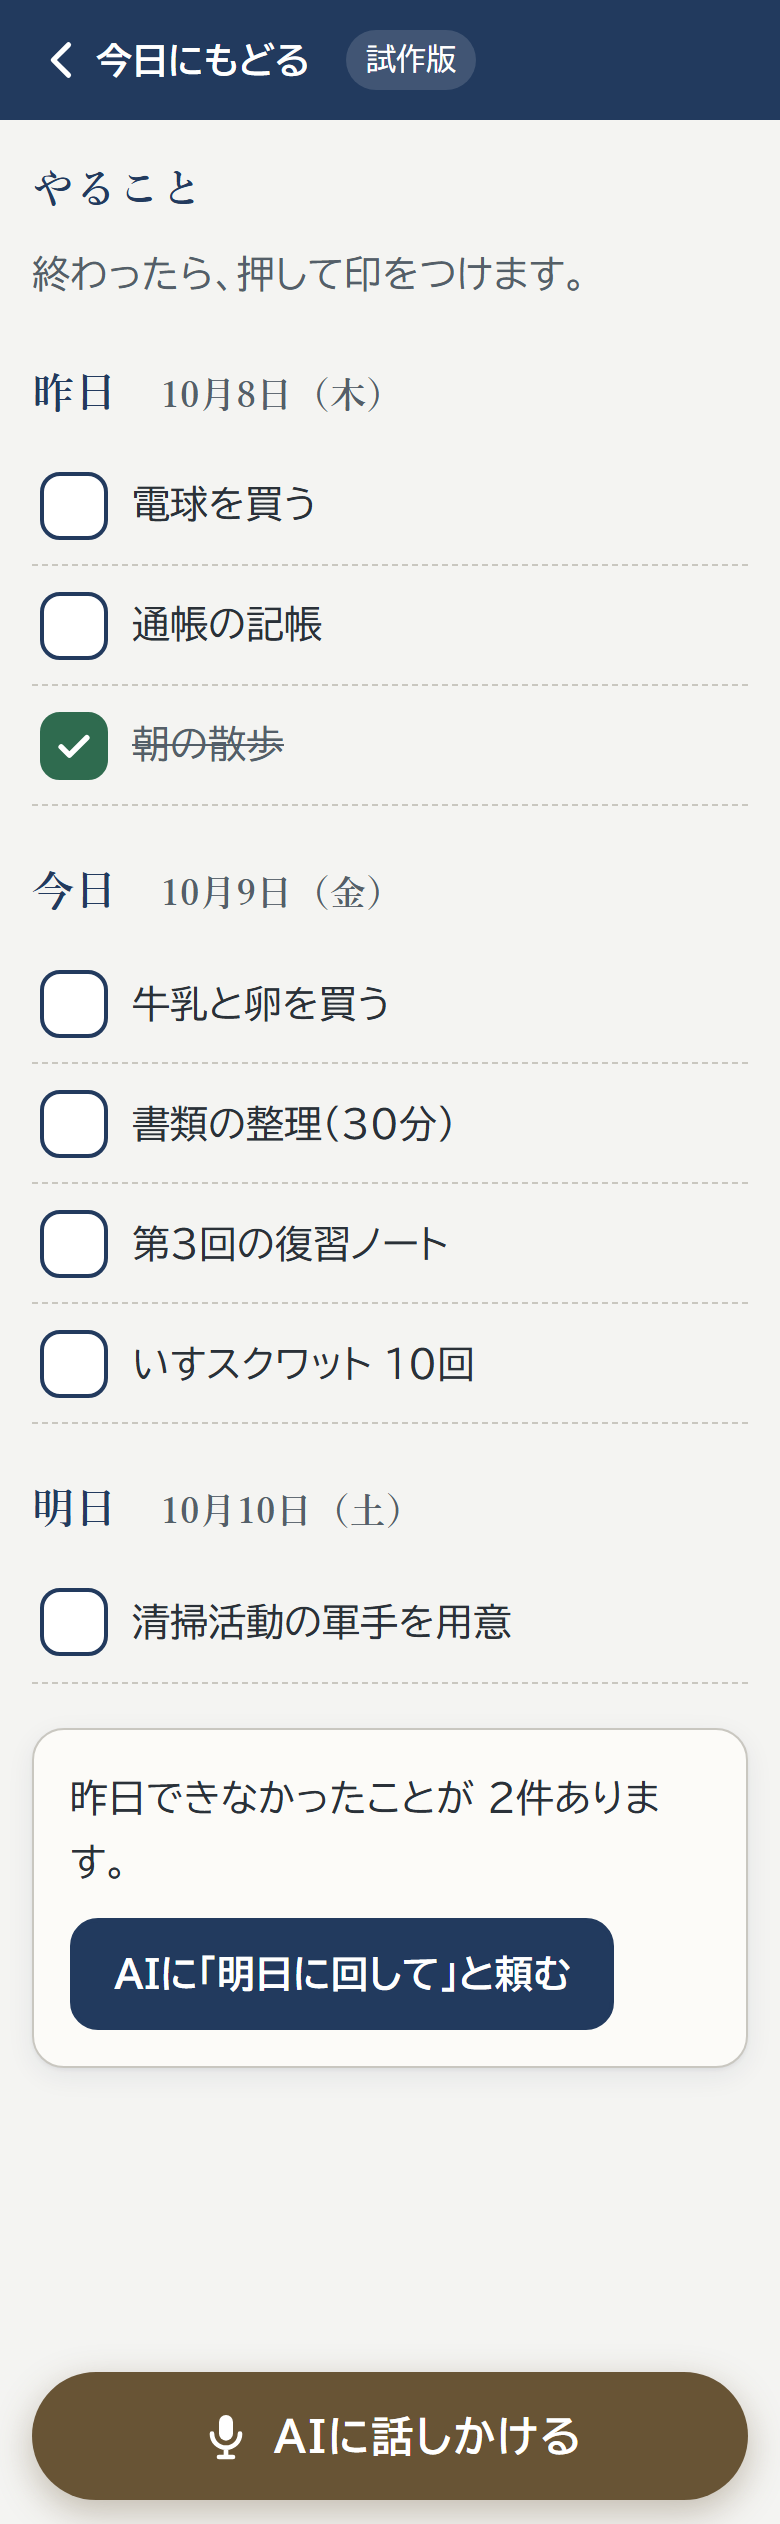
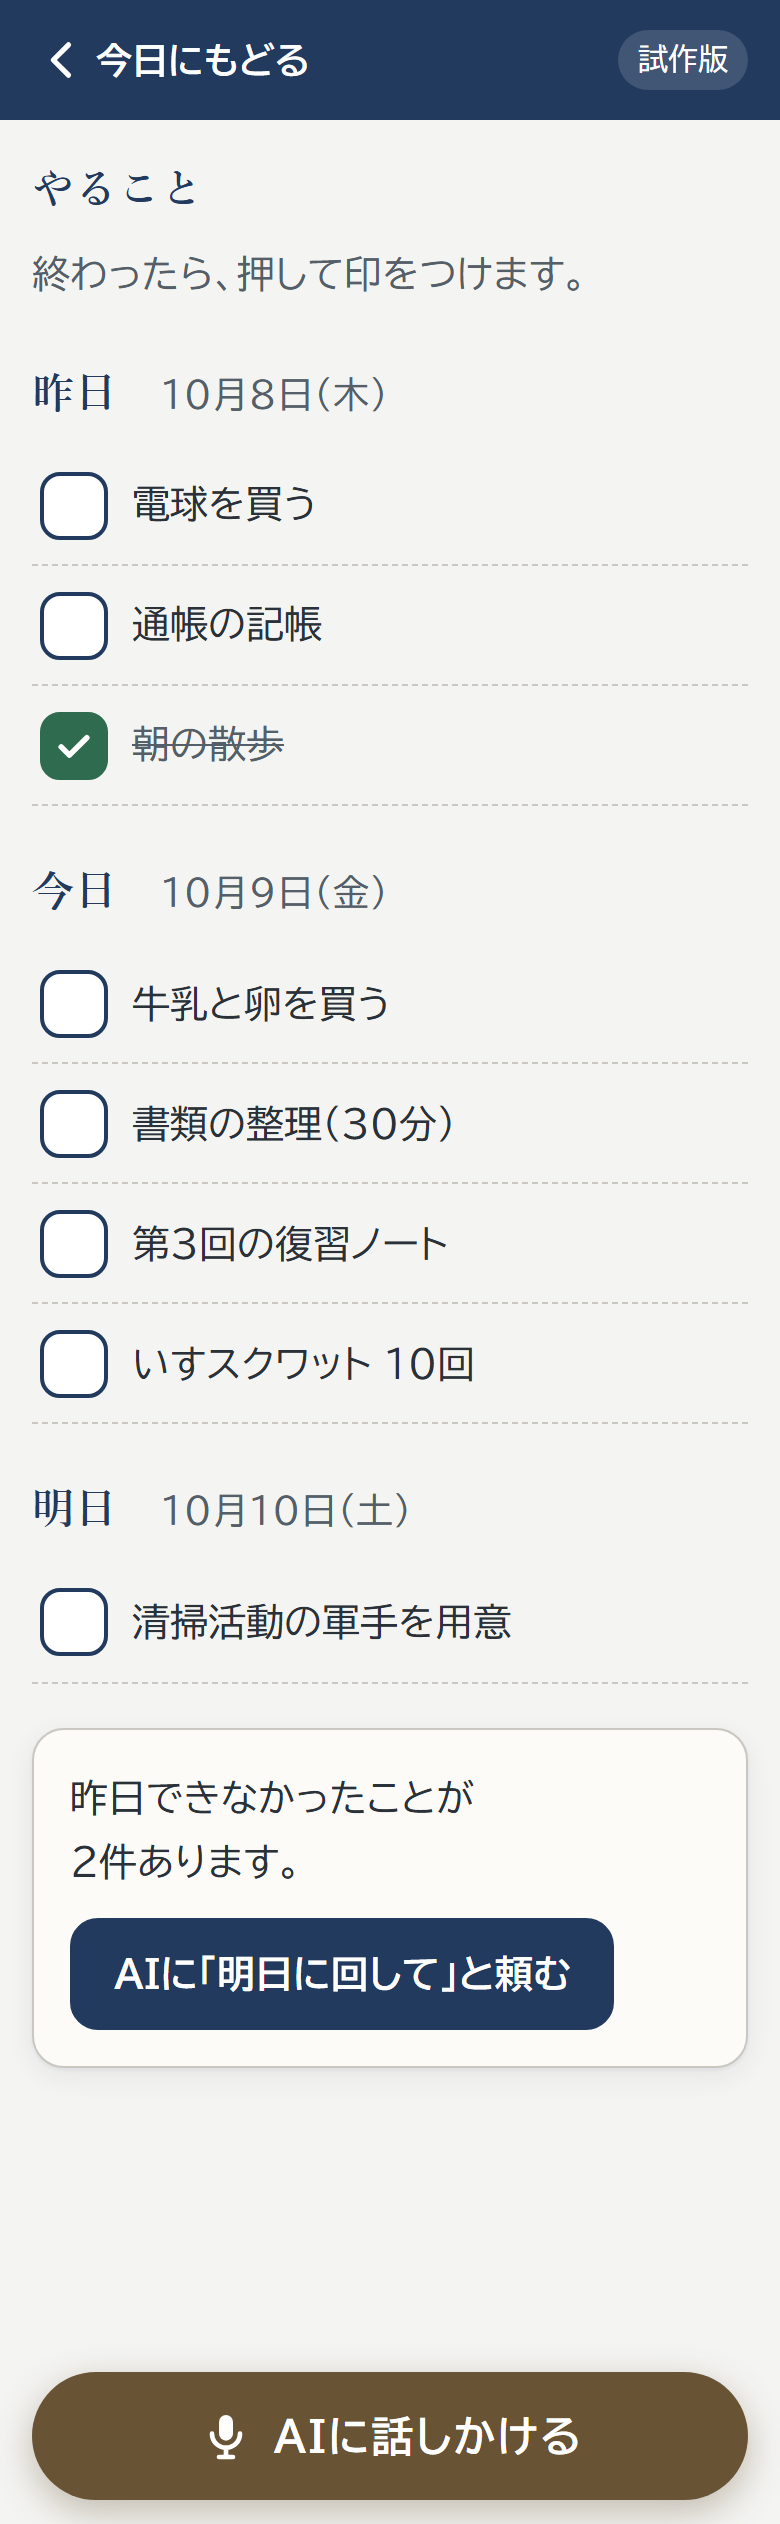
審査ラウンド1の指摘を反映：古い提案の二重登録を防ぐ／提案の理由を覚えていることから組み立てる／日本語の折り返し／記憶の承認表示／例である旨の注記

diff --git a/app.js b/app.js
@@ -46,12 +46,12 @@
         { id: 't8', date: key(TOMORROW), title: '清掃活動の軍手を用意', done: false }
       ],
       memories: [
-        { id: 'm1', text: '朝は6時ごろに起きる', src: '9月28日の会話から' },
-        { id: 'm2', text: '歩くのは30分くらいが続けやすい', src: '10月2日の会話から' },
-        { id: 'm3', text: '学ぶのは午後のほうが集中できる', src: '10月5日の会話から' },
-        { id: 'm4', text: '火曜の午前は定期の通院がある', src: '予定から' },
-        { id: 'm5', text: '予防栄養学を学んでいる。食事と運動のつながりに関心がある', src: '大学の登録から' },
-        { id: 'm6', text: '人生後半の居場所づくりについて発信している', src: '自己紹介から' }
+        { id: 'm1', text: '朝は6時ごろに起きる', src: '9月28日の会話から・承認ずみ' },
+        { id: 'm2', text: '歩くのは30分くらいが続けやすい', src: '10月2日の会話から・承認ずみ' },
+        { id: 'm3', text: '学ぶのは午後のほうが集中できる', src: '10月5日の会話から・承認ずみ' },
+        { id: 'm4', text: '火曜の午前は定期の通院がある', src: '予定から・承認ずみ' },
+        { id: 'm5', text: '予防栄養学を学んでいる。食事と運動のつながりに関心がある', src: '大学の登録から・承認ずみ' },
+        { id: 'm6', text: '人生後半の居場所づくりについて発信している', src: '自己紹介から・承認ずみ' }
       ],
       candidates: [
         { id: 'c1', text: '日曜の夜は、家族と電話することが多い', src: 'きのうの会話から' }
@@ -123,7 +123,9 @@
   ];
 
   // ---------- 台本（AIの返事） ----------
+  function remembers(re) { return state.memories.some(function (m) { return re.test(m.text); }); }
   function walkTime() { return state.walkEvening ? '16:30' : '7:00'; }
+  function reviewTime() { return remembers(/日曜の夜/) ? '16:00' : '19:00'; }
   function buildPlan() {
     var w = walkTime();
     return [
@@ -132,7 +134,7 @@
       { date: key(nextWeek(3)), time: w, title: 'ウォーキング 30分', kind: 'walk' },
       { date: key(nextWeek(4)), time: '15:00', title: '大学「予防栄養学の基礎」第5回（45分）', kind: 'univ', univ: true },
       { date: key(nextWeek(6)), time: w, title: 'ウォーキング 30分', kind: 'walk' },
-      { date: key(nextWeek(0)), time: '19:00', title: '1週間のふりかえり（健康と学び）', kind: 'review' }
+      { date: key(nextWeek(0)), time: reviewTime(), title: '1週間のふりかえり（健康と学び）', kind: 'review' }
     ];
   }
   function planApproved() { return state.events.some(function (e) { return e.ai; }); }
@@ -165,7 +167,8 @@
         if (planApproved()) {
           return { kind: 'text', html: '来週の運動と勉強は、もう予定に入っています。<a href="#/schedule">予定を見る</a>と確かめられます。' };
         }
-        return { kind: 'plan', id: nid('p'), status: 'pending', evening: !!state.walkEvening };
+        state.chat.forEach(function (m) { if (m.body && m.body.kind === 'plan' && m.body.status === 'pending') m.body.status = 'superseded'; });
+        return { kind: 'plan', id: nid('p'), status: 'pending', evening: !!state.walkEvening, review: reviewTime(), why: planReasons() };
       case 'carry':
         var m = movableTasks();
         if (!m.length) return { kind: 'text', html: '昨日のやることは、すべて片づいています。おつかれさまでした。' };
@@ -198,8 +201,8 @@
 
   // ---------- 承認 ----------
   function approvePlan(id) {
-    var msg = findMsg(id); if (!msg || msg.body.status !== 'pending') return;
-    buildPlan().forEach(function (p) {
+    var msg = findMsg(id); if (!msg || msg.body.status !== 'pending' || planApproved()) return;
+    buildPlanFor(msg.body).forEach(function (p) {
       state.events.push({ id: nid('e'), date: p.date, time: p.time, title: p.title, ai: true, univ: !!p.univ });
     });
     msg.body.status = 'approved';
@@ -259,6 +262,7 @@
         '<p class="date">' + esc(label(TODAY)) + '</p>' +
         '<h1>こんにちは、' + NAME + 'さん</h1>' +
         '<p class="sub">今日も、自分らしい一日を。</p>' +
+        '<p class="note">※試作版に出てくる予定や記憶は、説明のための例です。</p>' +
       '</section>' +
       (state.guideClosed ? '' :
       '<section class="guide" aria-label="この試作版の見どころ">' +
@@ -302,10 +306,7 @@
           return '<li><span class="d">' + esc(label(fromKey(p.date))) + '　<span class="t">' + esc(p.time) + '</span></span><span>' + esc(p.title) + '</span></li>';
         }).join('') + '</ul></div>' +
         '<div class="why"><h3>こう考えました</h3><ul>' +
-          '<li>歩くのは30分くらいが続けやすい、と伺っています <span class="from">覚えていること</span></li>' +
-          '<li>学ぶのは午後のほうが集中できるので、大学は15時から <span class="from">覚えていること</span></li>' +
-          '<li>通院と会食の日時は避けました <span class="from">予定</span></li>' +
-          '<li>大学は「予防栄養学の基礎」の続き（第4回・第5回） <span class="from">大学</span></li>' +
+          (b.why || []).map(function (r) { return '<li>' + esc(r[0]) + ' <span class="from">' + esc(r[1]) + '</span></li>'; }).join('') +
         '</ul></div>' +
         (b.status === 'pending'
           ? '<p class="wait-note">まだ予定には入れていません。よろしければ登録します。</p>' +
@@ -314,7 +315,9 @@
               (b.evening ? '' : '<button class="btn secondary block" data-act="say" data-text="ウォーキングは夕方にして">ウォーキングは夕方に</button>') +
               '<button class="btn quiet block" data-act="decline" data-id="' + b.id + '">今回はやめておく</button>' +
             '</div>'
-          : b.status === 'approved' ? '<p class="done-note">✓ 登録しました</p>' : '<p class="wait-note">この提案は見送りました。</p>') +
+          : b.status === 'approved' ? '<p class="done-note">✓ 登録しました</p>'
+          : b.status === 'superseded' ? '<p class="wait-note">この案は、下の新しい案に置きかえました。</p>'
+          : '<p class="wait-note">この提案は見送りました。</p>') +
       '</div>';
     }
     if (b.kind === 'carry') {
@@ -333,7 +336,20 @@
   // 提案カードは「出したときの条件」で描く（夕方案と朝案を混ぜない）
   function buildPlanFor(b) {
     var saved = state.walkEvening; state.walkEvening = b.evening;
-    var p = buildPlan(); state.walkEvening = saved; return p;
+    var p = buildPlan(); state.walkEvening = saved;
+    if (b.review) p.forEach(function (x) { if (x.kind === 'review') x.time = b.review; });
+    return p;
+  }
+  // 提案の理由は、そのとき覚えていることから組み立てる（忘れたことは理由に使わない）
+  function planReasons() {
+    var r = [];
+    if (remembers(/30分/)) r.push(['歩くのは30分くらいが続けやすい、と伺っています', '覚えていること']);
+    if (state.walkEvening) r.push(['ご希望に合わせて、ウォーキングは夕方にしました', '会話']);
+    if (remembers(/午後/)) r.push(['学ぶのは午後のほうが集中できるので、大学は15時から', '覚えていること']);
+    r.push(['通院と会食の日時は避けました', '予定']);
+    r.push(['大学は「予防栄養学の基礎」の続き（第4回・第5回）', '大学']);
+    if (remembers(/日曜の夜/)) r.push(['日曜の夜はご家族と電話されることが多いので、ふりかえりは16時に', '覚えていること']);
+    return r;
   }
 
   function renderChat(scroll) {

diff --git a/styles.css b/styles.css
@@ -29,6 +29,9 @@ body {
   color: var(--ink);
   background: #e7e3da;
   overflow-x: hidden;
+  word-break: auto-phrase;
+  text-wrap: pretty;
+  line-break: strict;
 }
 a { color: inherit; }
 button { font: inherit; color: inherit; }
@@ -70,6 +73,7 @@ svg { display: block; }
 .back svg { width: 26px; height: 26px; }
 .back:not([hidden]) + .brand { display: none; }
 .demo-badge {
+  margin-left: auto;
   font-size: 15px; padding: 2px 10px; border-radius: 999px;
   background: rgba(255,255,255,.14); color: #fff; white-space: nowrap;
 }
@@ -104,6 +108,8 @@ svg { display: block; }
 .section-title { font-size: 21px; color: var(--navy); margin: 28px 0 12px; }
 .lead { color: var(--muted); }
 .small { font-size: 18px; color: var(--muted); }
+.section-title .small { font-family: var(--sans); font-weight: 400; }
+.hello .note { margin-top: 8px; font-size: 18px; color: var(--muted); }
 .btn {
   display: inline-flex; align-items: center; justify-content: center; gap: 8px;
   min-height: 56px; min-width: 48px; padding: 0 20px;
@@ -279,12 +285,12 @@ svg { display: block; }
 .promise { margin-top: 20px; padding: 14px 16px; border-left: 4px solid var(--navy); background: var(--paper-white); }
 
 /* ---- 機能をふやす ---- */
-.feature { display: flex; gap: 14px; align-items: center; }
+.feature { display: flex; flex-wrap: wrap; gap: 10px 14px; align-items: center; }
 .feature svg { flex: none; width: 40px; height: 40px; color: var(--navy); }
 .feature .body { flex: 1; min-width: 0; }
 .feature h2 { font-family: var(--sans); font-size: 19px; }
 .feature p { font-size: 18px; color: var(--muted); }
-.feature .btn { flex: none; min-height: 48px; padding: 0 14px; font-size: 18px; }
+.feature .btn { flex: 1 0 100%; min-height: 52px; padding: 0 14px; font-size: 18px; }
 
 /* ---- 通知 ---- */
 .toast {
